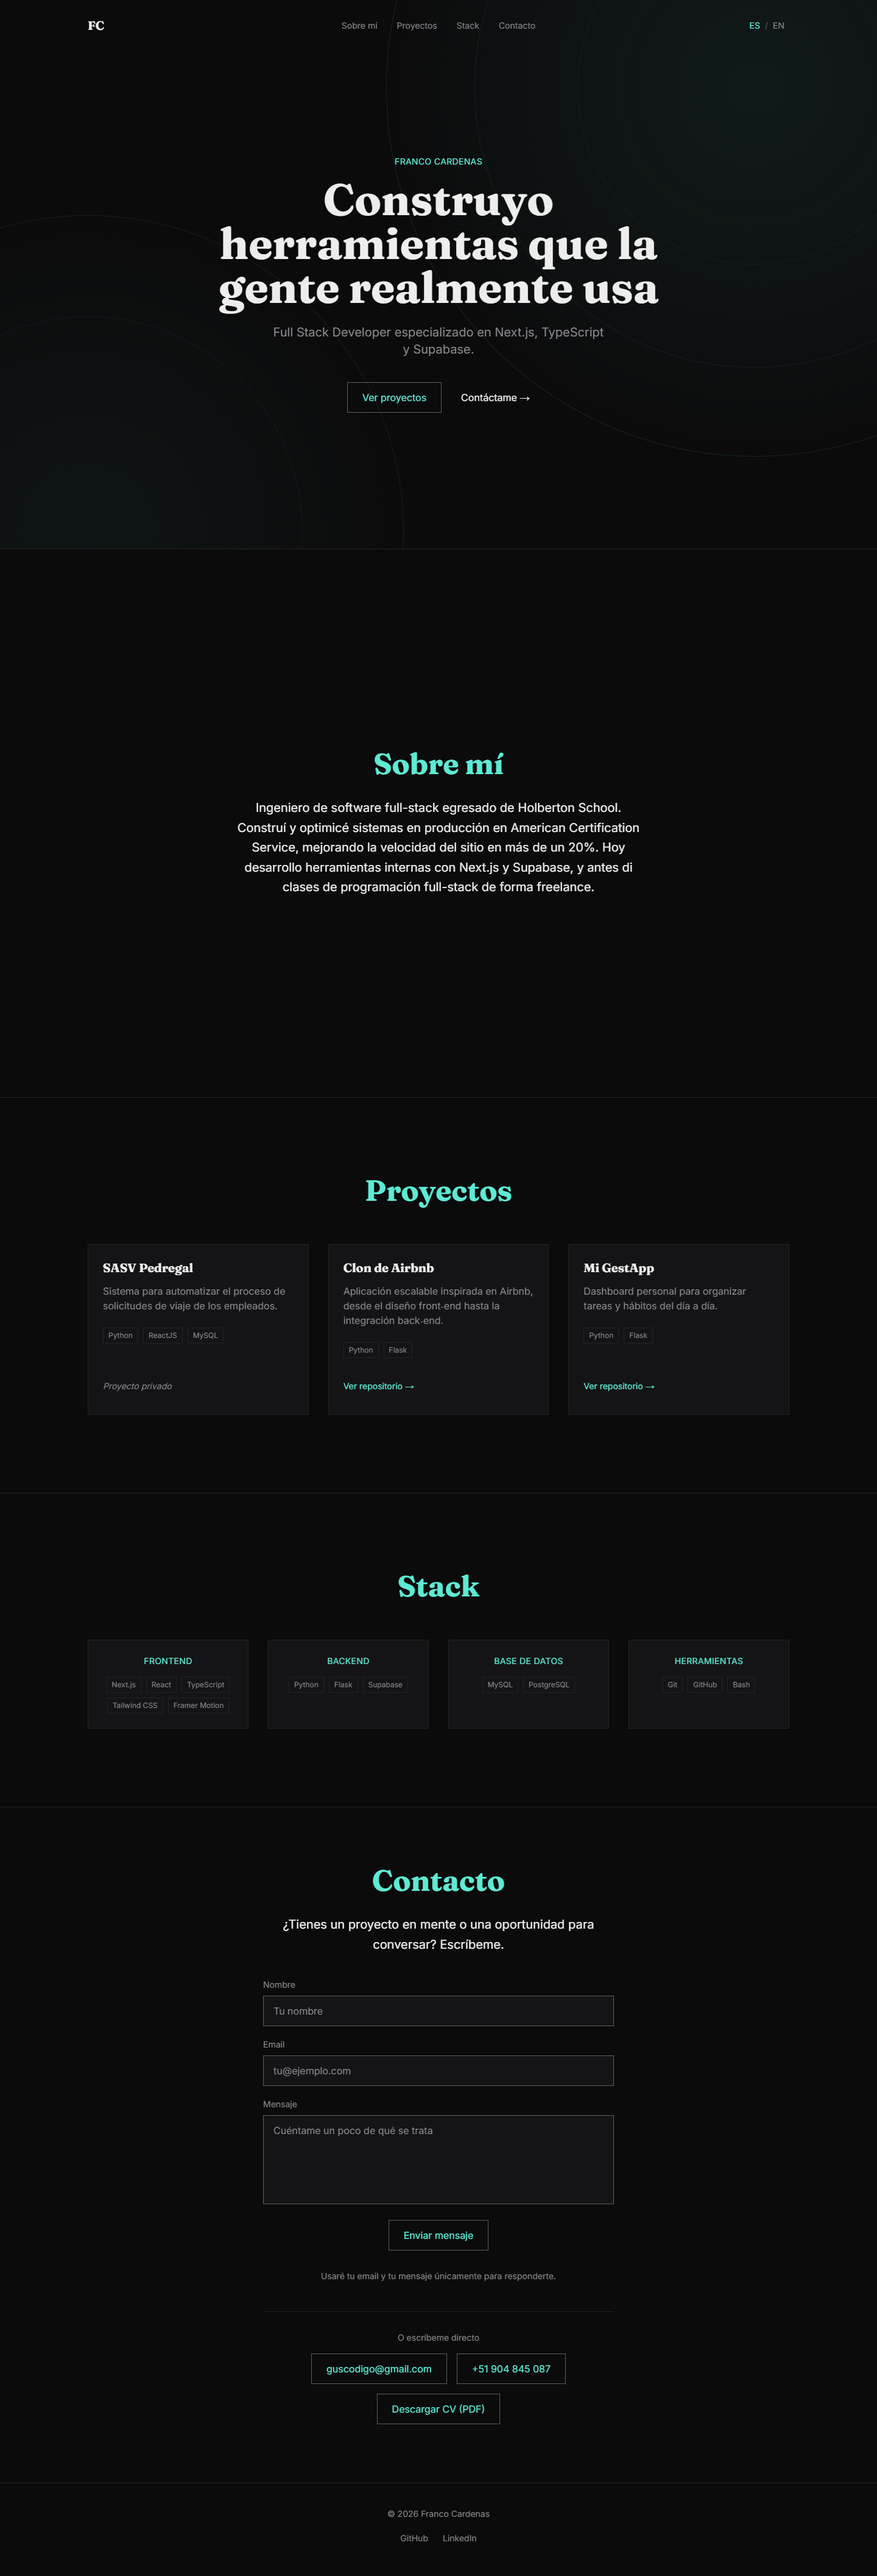
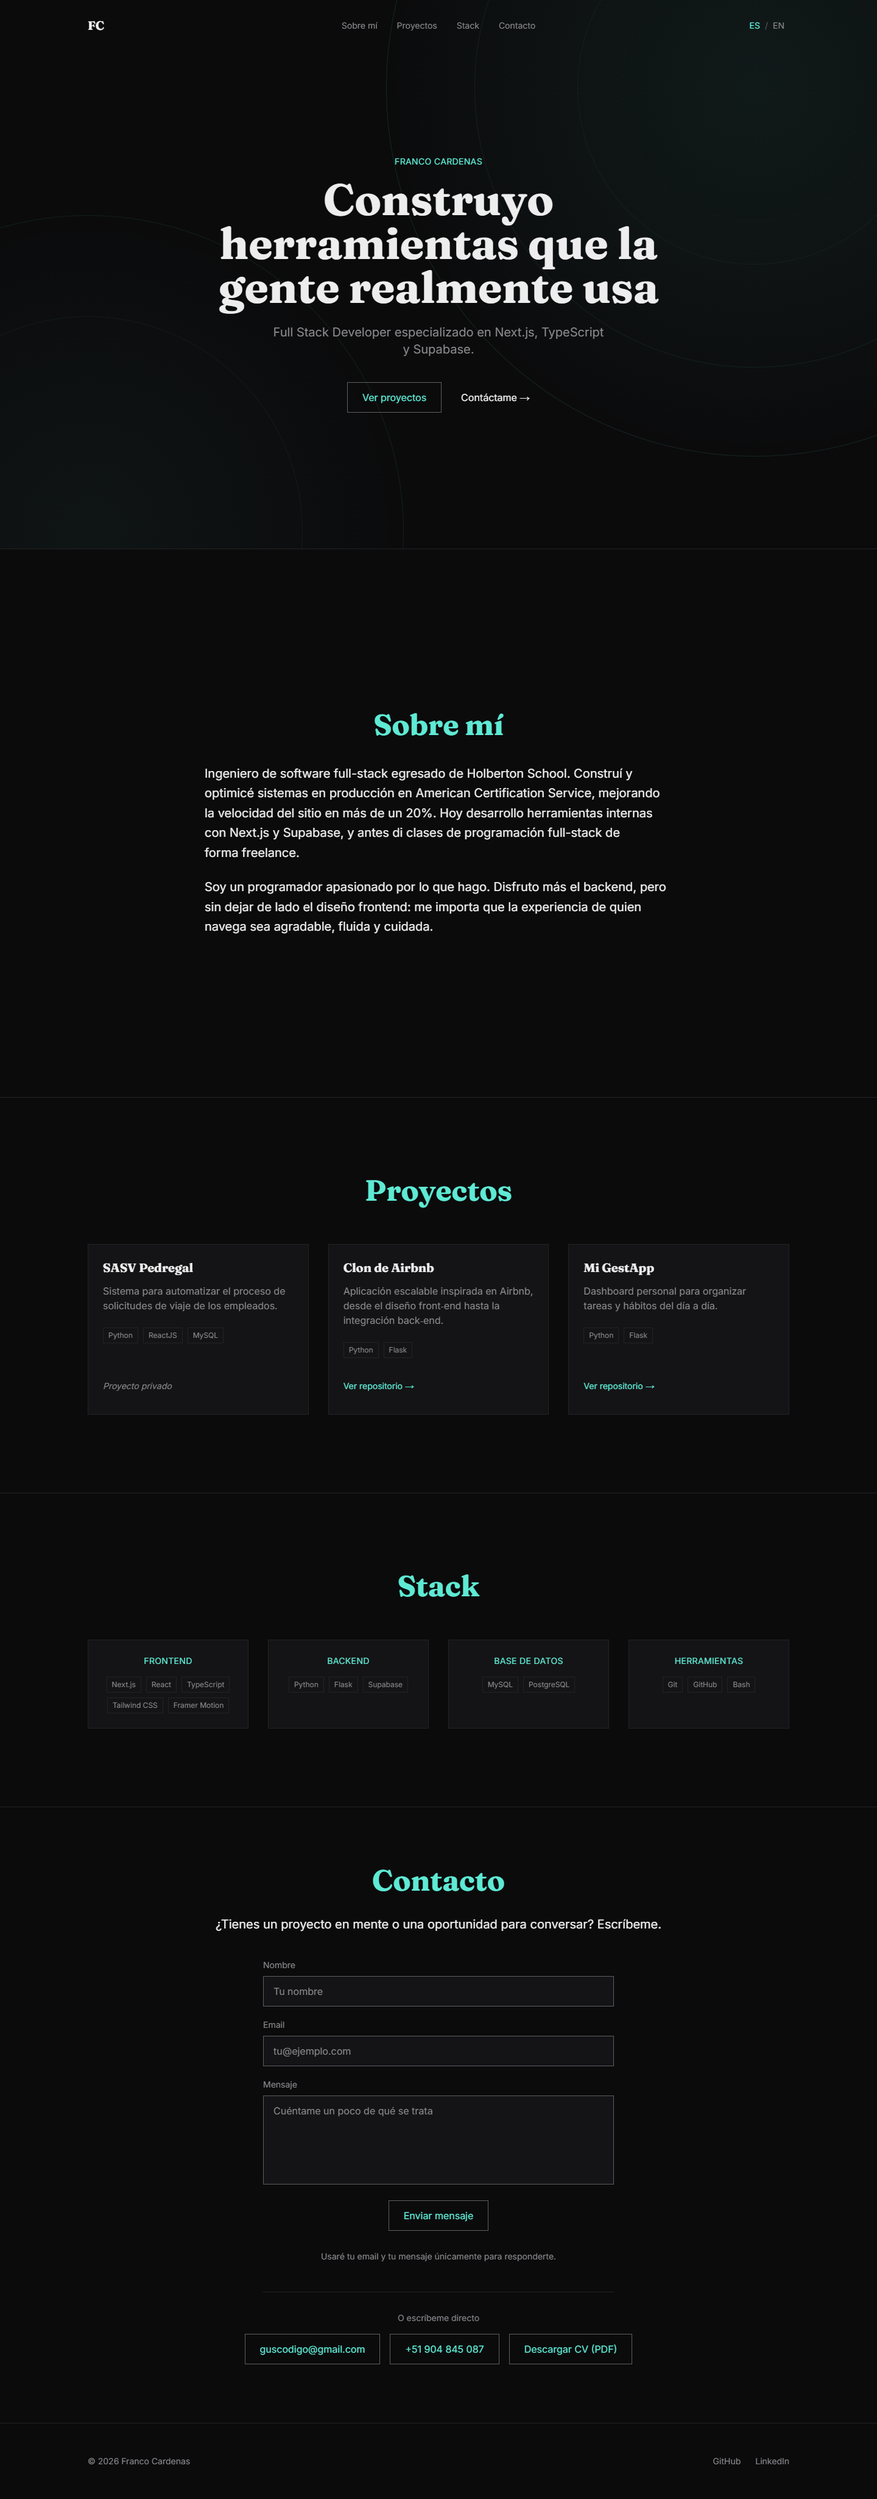
feat: widen About copy, align contact links in one row and split footer
- Add a second About paragraph about backend preference and frontend care (ES/EN)
- Make the About text wider and left-aligned for easier reading
- Keep the form narrow while the email, phone and CV buttons share one row on desktop
- Show the copyright on the left and social links on the right in the footer
- Refresh README screenshots

diff --git a/src/components/sections/Contact.tsx b/src/components/sections/Contact.tsx
@@ -90,7 +90,7 @@ export function Contact() {
       aria-labelledby="contact-heading"
       className="min-h-screen flex items-center justify-center px-8 md:px-16 py-24 border-t border-border"
     >
-      <motion.div {...reveal()} className="mx-auto w-full max-w-xl text-center">
+      <motion.div {...reveal()} className="mx-auto w-full max-w-4xl text-center">
         <h2
           id="contact-heading"
           className="text-3xl md:text-5xl font-display font-bold text-accent mb-8"
@@ -101,7 +101,11 @@ export function Contact() {
           {t('body')}
         </p>
 
-        <form onSubmit={handleSubmit} noValidate className="flex flex-col gap-5 text-left">
+        <form
+          onSubmit={handleSubmit}
+          noValidate
+          className="mx-auto flex w-full max-w-xl flex-col gap-5 text-left"
+        >
           <div
             aria-hidden="true"
             className="absolute -left-[9999px] h-0 w-0 overflow-hidden"
@@ -218,9 +222,11 @@ export function Contact() {
           </p>
         </form>
 
-        <div className="mt-12 pt-8 border-t border-border">
-          <p className="text-sm text-muted mb-4">{t('orDirect')}</p>
-          <div className="flex flex-col items-center sm:flex-row sm:flex-wrap sm:justify-center gap-4">
+        <div className="mt-12">
+          <div className="mx-auto max-w-xl border-t border-border pt-8">
+            <p className="text-sm text-muted">{t('orDirect')}</p>
+          </div>
+          <div className="mt-4 flex flex-col items-center gap-4 sm:flex-row sm:flex-wrap sm:justify-center lg:flex-nowrap">
             <a
               href={`mailto:${EMAIL}`}
               className="btn-outline"

diff --git a/src/components/Footer.tsx b/src/components/Footer.tsx
@@ -17,27 +17,29 @@ export function Footer() {
   return (
     <motion.footer
       {...reveal()}
-      className="border-t border-border px-8 md:px-16 py-10 flex flex-col items-center gap-2 text-center text-sm text-muted"
+      className="border-t border-border px-8 md:px-16 py-10 text-sm text-muted"
     >
-      <p>
-        © {year} {SITE_NAME}
-      </p>
+      <div className="mx-auto flex max-w-6xl flex-col items-center gap-2 md:flex-row md:justify-between">
+        <p>
+          © {year} {SITE_NAME}
+        </p>
 
-      <ul className="flex items-center gap-6">
-        {LINKS.map(({ label, href }) => (
-          <li key={label}>
-            <a
-              href={href}
-              target="_blank"
-              rel="noopener noreferrer"
-              className="inline-flex min-h-11 items-center hover:text-foreground transition-colors"
-            >
-              {label}
-              <span className="sr-only"> {t('newTab')}</span>
-            </a>
-          </li>
-        ))}
-      </ul>
+        <ul className="flex items-center gap-6">
+          {LINKS.map(({ label, href }) => (
+            <li key={label}>
+              <a
+                href={href}
+                target="_blank"
+                rel="noopener noreferrer"
+                className="inline-flex min-h-11 items-center hover:text-foreground transition-colors"
+              >
+                {label}
+                <span className="sr-only"> {t('newTab')}</span>
+              </a>
+            </li>
+          ))}
+        </ul>
+      </div>
     </motion.footer>
   );
 }

diff --git a/src/components/sections/About.tsx b/src/components/sections/About.tsx
@@ -13,16 +13,17 @@ export function About() {
       aria-labelledby="about-heading"
       className="min-h-screen flex items-center justify-center px-8 md:px-16 py-24 border-t border-border"
     >
-      <motion.div {...reveal()} className="max-w-2xl text-center">
+      <motion.div {...reveal()} className="w-full max-w-3xl">
         <h2
           id="about-heading"
-          className="text-3xl md:text-5xl font-display font-bold text-accent mb-8"
+          className="text-center text-3xl md:text-5xl font-display font-bold text-accent mb-10"
         >
           {t('heading')}
         </h2>
-        <p className="text-lg md:text-xl text-foreground leading-relaxed">
-          {t('body')}
-        </p>
+        <div className="space-y-6 text-left text-lg md:text-xl text-foreground leading-relaxed">
+          <p>{t('body')}</p>
+          <p>{t('passion')}</p>
+        </div>
       </motion.div>
     </section>
   );
